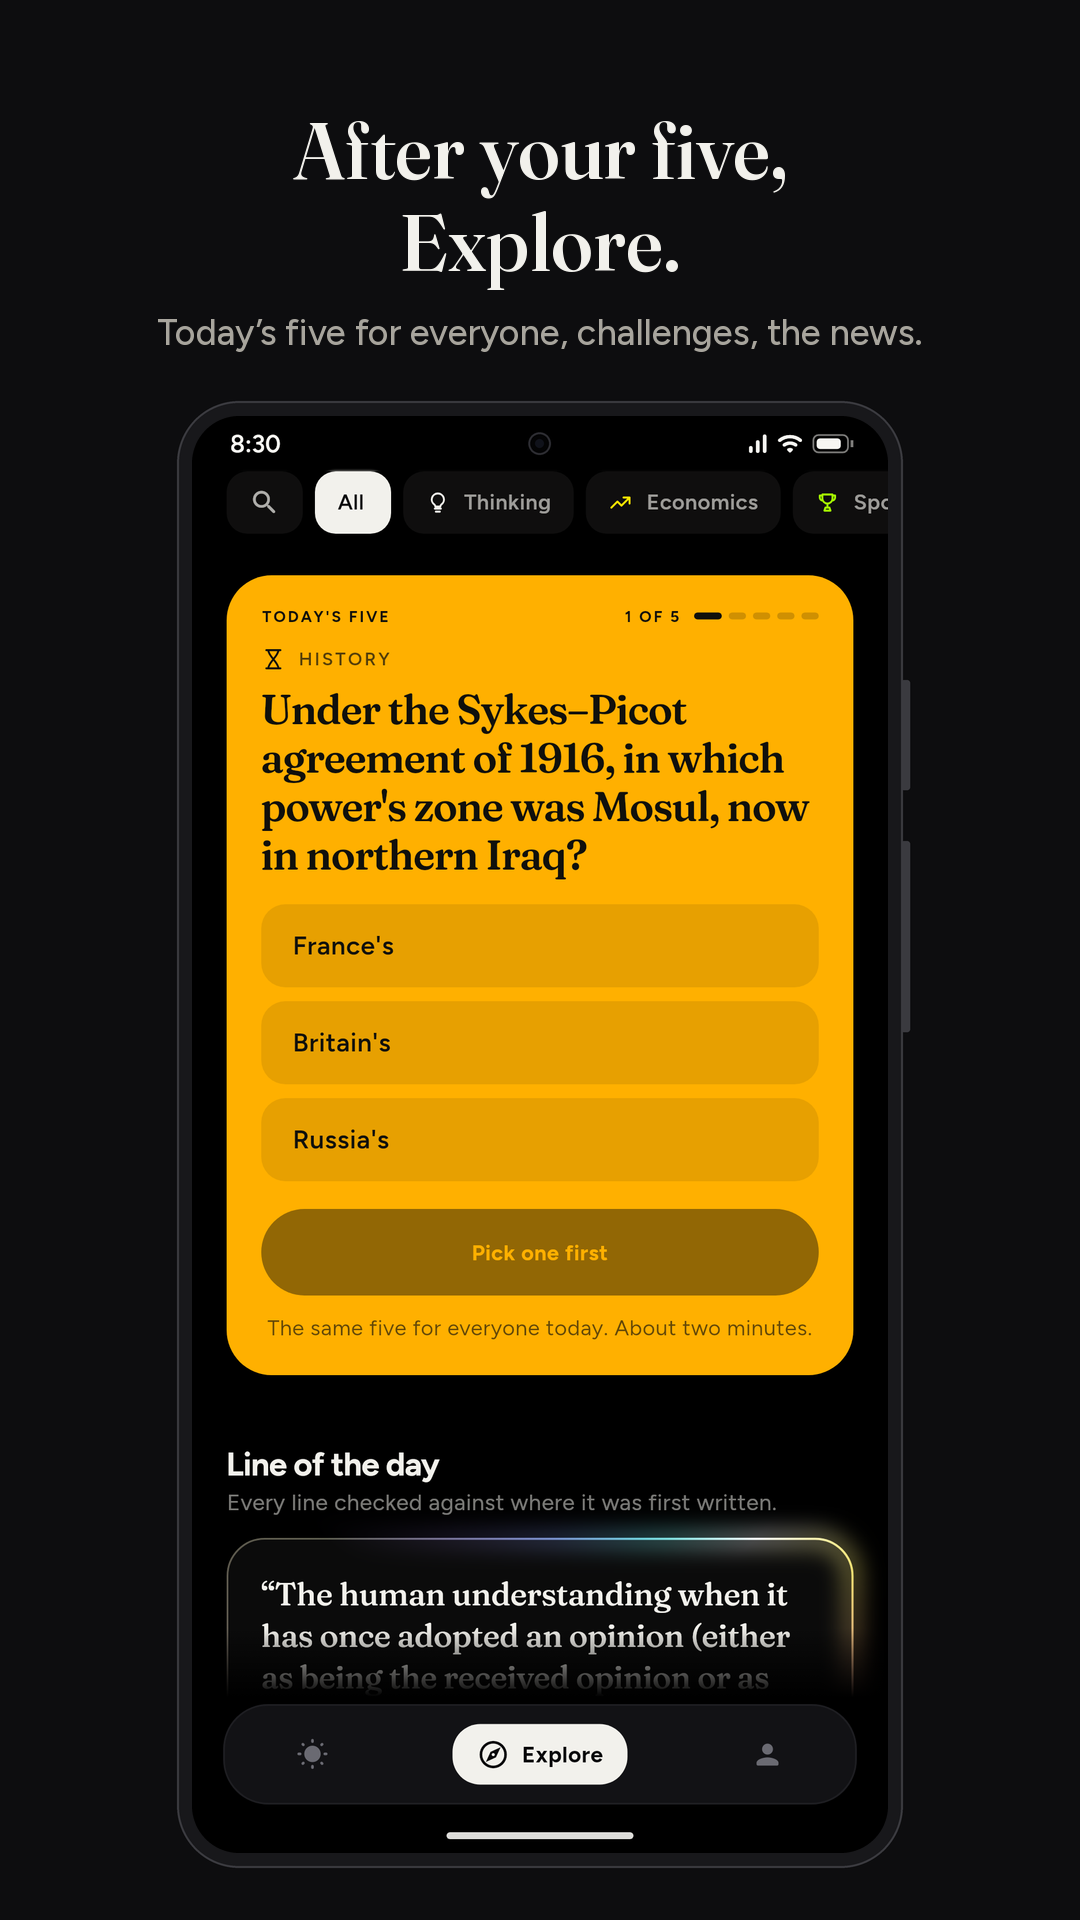
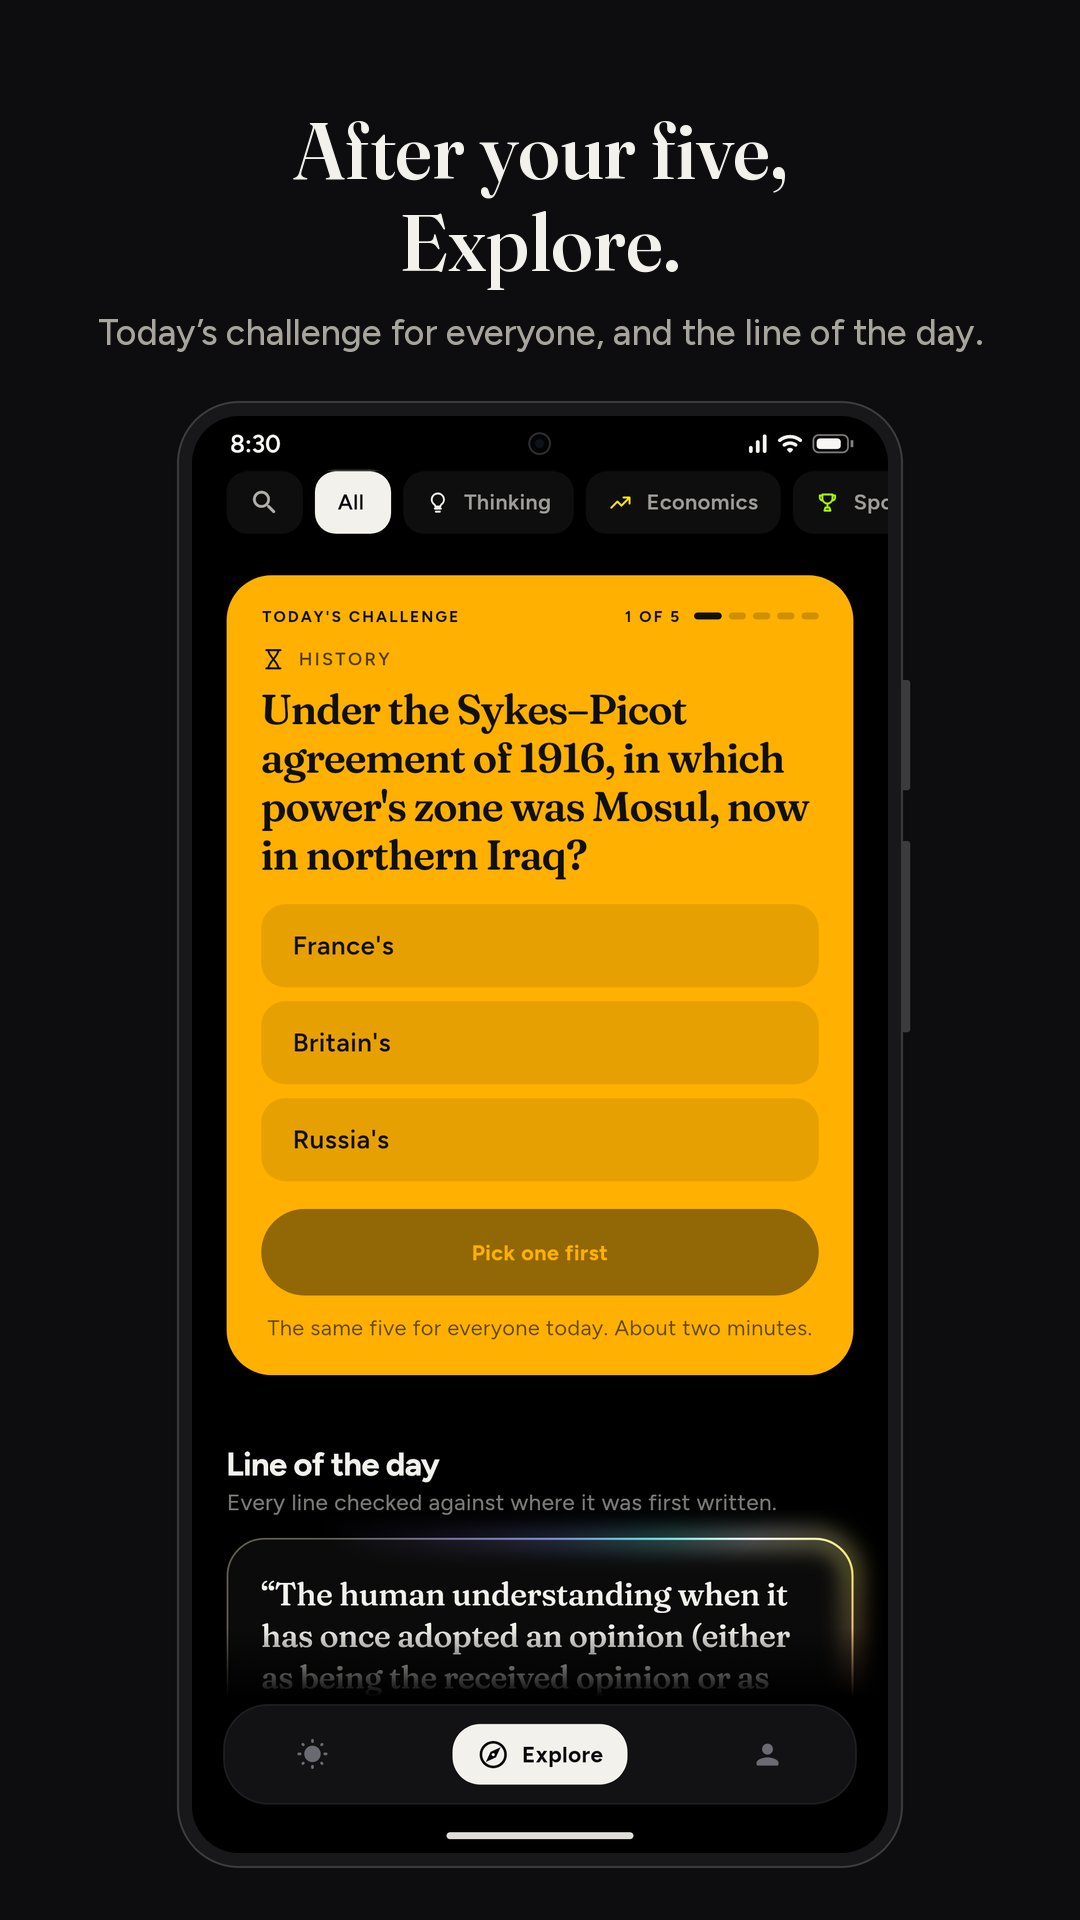
Today's challenge, as the app now calls everyone's five, in the listing and the pictures
The merge renamed Explore's five for everyone to Today's challenge (La
sfida di oggi), so the reader's own five never share a name with it. The
listing, the copy page, the Explore captions and the launch drafts now
use the app's name, and the Explore pictures are retaken on the merged
app; their caption names what the screen shows, the line of the day, not
the news below it. The checker also knows the new book audio switch, off
until the voice is set up, so no listing promises it early.

Claude-Session: https://claude.ai/code/session_01X1xTv2CpWJfjxfH2MaXNaq

Changed region(s): [[0.0917, 0.1562, 0.9167, 0.1875], [0.3361, 0.3125, 0.3667, 0.3438]]

diff --git a/store/compose_shots.py b/store/compose_shots.py
@@ -52,14 +52,14 @@ CAPTIONS = {
         "02-drawn": ("Cards you play,\nnot just read.", "Tap, drag, and watch the answer happen."),
         "03-answer": ("Say how sure you are.\nThen see why.", "The answer, the trap and the source."),
         "04-journey": ("Watch yourself\nget sharper.", "Your journey, week by week, with Astute+."),
-        "05-explore": ("After your five,\nExplore.", "Today’s five for everyone, challenges, the news."),
+        "05-explore": ("After your five,\nExplore.", "Today’s challenge for everyone, and the line of the day."),
     },
     "it": {
         "01-today": ("Cinque carte\nogni mattina.", "Domande vere, dalle materie che scegli tu."),
         "02-drawn": ("Carte da giocare,\nnon solo da leggere.", "Tocchi, trascini, e la risposta prende forma."),
         "03-answer": ("Di’ quanto sei sicuro.\nPoi scopri perché.", "La risposta, la trappola e la fonte."),
         "04-journey": ("Guarda quanto\nmigliori.", "Il tuo viaggio, settimana per settimana, con Astute+."),
-        "05-explore": ("Dopo le tue cinque,\nc’è Esplora.", "Le cinque di oggi per tutti, le sfide, le notizie."),
+        "05-explore": ("Dopo le tue cinque,\nc’è Esplora.", "La sfida di oggi, uguale per tutti, e la frase del giorno."),
     },
 }
 

diff --git a/store/test_check_listing.py b/store/test_check_listing.py
@@ -100,6 +100,12 @@ class HonestyTest(unittest.TestCase):
         text = swapped("A habit that stays small", "Listen to your five. A habit that stays small")
         self.assertEqual(check_listing.problems(text, facts), [])
 
+    def test_book_audio_is_not_promised_while_it_is_off(self):
+        facts = dict(FACTS, flags=dict(FACTS["flags"], bookAudio=False))
+        text = swapped("Books in pills, one free every week.", "Books in pills, one free every week, read aloud.")
+        found = check_listing.problems(text, facts)
+        self.assertTrue(any("bookAudio" in p for p in found), found)
+
     def test_the_cards_in_english_are_said(self):
         found = problems(swapped("Le carte, per ora, sono in inglese.", ""))
         self.assertTrue(any("in English" in p for p in found), found)

diff --git a/store/check_listing.py b/store/check_listing.py
@@ -183,6 +183,8 @@ IN_ENGLISH = {"en": r"\bcards are in English\b", "it": r"\bcarte[^.]{0,20}\bsono
 # The words that name a feature behind each switch.
 FEATURES = {
     "listen": {"en": [r"\blisten", r"\bread aloud\b", r"\baudio\b"], "it": [r"\bascolt", r"\bad alta voce\b", r"\baudio\b"]},
+    "bookAudio": {"en": [r"\baudio ?books?\b", r"\bbooks?\b[^.]{0,40}\b(?:read aloud|listen|audio)"],
+                  "it": [r"\baudiolibr", r"\blibr[oi]\b[^.]{0,40}\b(?:ad alta voce|ascolt|audio)"]},
     "invite": {"en": [r"\binvit(?:e|ation)"], "it": [r"\binvit[ao]\b", r"\binvita un amico\b"]},
     "share.challenge": {"en": [r"\bchallenge a friend\b"], "it": [r"\bsfid(?:a|are) un amico\b"]},
     "cardAi": {"en": [r"\bassistant\b", r"\bcoach\b"], "it": [r"\bassistente\b", r"\bcoach\b"]},

diff --git a/store/listing.md b/store/listing.md
@@ -23,7 +23,7 @@ Learn something new every day
 trivia,curiosity,knowledge,science,history,brain,why,psychology,space,general,calibration,smart
 
 ### Promotional text (App Store 170)
-Five cards every morning, many drawn to be played. Answer, say how sure you are, then see why. In Explore, today's five: the same for everyone, to send a friend.
+Five cards every morning, many drawn to be played. Answer, say how sure you are, then see why. In Explore, today's challenge: five questions, the same for everyone.
 
 ### Short description (Google Play 80)
 Learn something new every day. Five cards: answer, say how sure, see why.
@@ -43,7 +43,7 @@ What your "sure" is worth
 Every time you say how sure you are, Astute keeps count. Your profile shows how often you are right when you say 70%, 80% or 90%: where you know more than you think, and where you are sure and wrong.
 
 Explore, when your five are done
-Today's five: the same five questions for everyone, a score out of 500, and a link to challenge a friend. Short challenges in estimation and judgement. The latest news, a story to a card, with the reports each one comes from. A line of the day, checked against where it was first written. A problem of the day. Books in pills, one free every week. Ten-card paths, from the easiest card to the hardest.
+Today's challenge: the same five questions for everyone, a score out of 500, and a link to challenge a friend. Short challenges in estimation and judgement. The latest news, a story to a card, with the reports each one comes from. A line of the day, checked against where it was first written. A problem of the day. Books in pills, one free every week. Ten-card paths, from the easiest card to the hardest.
 
 A habit that stays small
 Five cards and you are done for the day. One notification a day, with a question from your cards; a streak with freezes for the day you forget; and widgets for your home screen.
@@ -74,7 +74,7 @@ Impara qualcosa ogni giorno
 quiz,cultura,generale,scienza,storia,cervello,sapevi,psicologia,spazio,arte,domande,mente,imparare
 
 ### Testo promozionale
-Cinque carte ogni mattina, molte da giocare. Rispondi, di' quanto sei sicuro e scopri il perché. In Esplora, le cinque di oggi: uguali per tutti, da mandare a un amico.
+Cinque carte ogni mattina, molte da giocare. Rispondi, di' quanto sei sicuro e scopri il perché. In Esplora, la sfida di oggi: cinque domande uguali per tutti.
 
 ### Descrizione breve (Google Play)
 Impara qualcosa di nuovo ogni giorno: cinque carte, e di ognuna il perché.
@@ -94,7 +94,7 @@ Quanto vale il tuo «sono sicuro»
 Ogni volta che dici quanto sei sicuro, Astute tiene il conto. Nel profilo vedi quante volte hai ragione quando dici 70%, 80% o 90%: dove ne sai più di quanto pensi, e dove sei sicuro e sbagli.
 
 Esplora, quando hai finito le tue cinque
-Le cinque di oggi: le stesse cinque domande per tutti, un punteggio su 500 e un link per sfidare un amico. Sfide brevi di stima e di giudizio. Le ultime notizie, una storia per carta, con gli articoli da cui viene ognuna. La frase del giorno, verificata là dove fu scritta per la prima volta. Il problema del giorno. I libri in pillole, uno gratis ogni settimana. Percorsi da 10 carte, dalla più facile alla più difficile.
+La sfida di oggi: le stesse cinque domande per tutti, un punteggio su 500 e un link per sfidare un amico. Sfide brevi di stima e di giudizio. Le ultime notizie, una storia per carta, con gli articoli da cui viene ognuna. La frase del giorno, verificata là dove fu scritta per la prima volta. Il problema del giorno. I libri in pillole, uno gratis ogni settimana. Percorsi da 10 carte, dalla più facile alla più difficile.
 
 Un'abitudine che resta piccola
 Cinque carte e per oggi hai finito. Una notifica al giorno, con una domanda dalle tue carte; una serie di giorni con i jolly per il giorno in cui te ne dimentichi; e i widget per la schermata Home.

diff --git a/store/play_it_en.md b/store/play_it_en.md
@@ -67,7 +67,7 @@ What your "sure" is worth
 Every time you say how sure you are, Astute keeps count. Your profile shows how often you are right when you say 70%, 80% or 90%: where you know more than you think, and where you are sure and wrong.
 
 Explore, when your five are done
-Today's five: the same five questions for everyone, a score out of 500, and a link to challenge a friend. Short challenges in estimation and judgement. The latest news, a story to a card, with the reports each one comes from. A line of the day, checked against where it was first written. A problem of the day. Books in pills, one free every week. Ten-card paths, from the easiest card to the hardest.
+Today's challenge: the same five questions for everyone, a score out of 500, and a link to challenge a friend. Short challenges in estimation and judgement. The latest news, a story to a card, with the reports each one comes from. A line of the day, checked against where it was first written. A problem of the day. Books in pills, one free every week. Ten-card paths, from the easiest card to the hardest.
 
 A habit that stays small
 Five cards and you are done for the day. One notification a day, with a question from your cards; a streak with freezes for the day you forget; and widgets for your home screen.
@@ -115,7 +115,7 @@ Quanto vale il tuo «sono sicuro»
 Ogni volta che dici quanto sei sicuro, Astute tiene il conto. Nel profilo vedi quante volte hai ragione quando dici 70%, 80% o 90%: dove ne sai più di quanto pensi, e dove sei sicuro e sbagli.
 
 Esplora, quando hai finito le tue cinque
-Le cinque di oggi: le stesse cinque domande per tutti, un punteggio su 500 e un link per sfidare un amico. Sfide brevi di stima e di giudizio. Le ultime notizie, una storia per carta, con gli articoli da cui viene ognuna. La frase del giorno, verificata là dove fu scritta per la prima volta. Il problema del giorno. I libri in pillole, uno gratis ogni settimana. Percorsi da 10 carte, dalla più facile alla più difficile.
+La sfida di oggi: le stesse cinque domande per tutti, un punteggio su 500 e un link per sfidare un amico. Sfide brevi di stima e di giudizio. Le ultime notizie, una storia per carta, con gli articoli da cui viene ognuna. La frase del giorno, verificata là dove fu scritta per la prima volta. Il problema del giorno. I libri in pillole, uno gratis ogni settimana. Percorsi da 10 carte, dalla più facile alla più difficile.
 
 Un'abitudine che resta piccola
 Cinque carte e per oggi hai finito. Una notifica al giorno, con una domanda dalle tue carte; una serie di giorni con i jolly per il giorno in cui te ne dimentichi; e i widget per la schermata Home.

diff --git a/docs/launch/show-hn.md b/docs/launch/show-hn.md
@@ -40,7 +40,7 @@ Some details:
 
 - About 6,500 cards across 20 subjects. Around 900 are small drawings you play with: drop half of Etna into the sea and watch what reaches the far coast, or lengthen a straw until the air can no longer push the water up.
 - An AI model writes the cards ahead of time, each from a named source. Most of the drawn ones start from science explainer videos (Geopop and Veritasium), usually with a link to the minute where the point is made. A second model reviews most cards, and anything it cannot confirm goes on a list for a person to check. Readers can flag a card; a card flagged enough stops being dealt until someone has checked it.
-- The free plan is five cards a day (two picked for you, three at random from your subjects), plus Explore: a daily five that is the same for everyone, short estimation exercises, and a news digest with its sources. Astute+ is €29.99 a year with 14 days free: it picks all five at your level and shows your calibration week by week.
+- The free plan is five cards a day (two picked for you, three at random from your subjects), plus Explore: today's challenge (five questions, the same for everyone), short estimation exercises, and a news digest with its sources. Astute+ is €29.99 a year with 14 days free: it picks all five at your level and shows your calibration week by week.
 - No ads, and no account needed. Signing in only moves your record to a new phone.
 - Built with Flutter, Firebase and RevenueCat. The drawn cards are HTML pages on a small kit, shown in a webview, so a new kind of card does not need an app release.
 

diff --git a/docs/launch/product-hunt.md b/docs/launch/product-hunt.md
@@ -55,6 +55,6 @@ A few things I want to be clear about:
 - The cards are written ahead of time by an AI model, each from a named source you can open. A second model reviews most of them, and anything it cannot confirm goes to a person. You can flag a card, and a flagged card stops being shown until someone has checked it.
 - Many of the drawn cards start from science explainer videos. Each names the video, usually with a link to the minute it comes from.
 - The cards are in English for now; the app itself speaks 13 languages.
-- The free plan is five cards a day and Explore, with its daily five and its challenges. Astute+ picks all five at your level and shows how you change week by week; the yearly plan starts with 14 days free.
+- The free plan is five cards a day and Explore, with today's challenge (five questions, the same for everyone) and its short exercises. Astute+ picks all five at your level and shows how you change week by week; the yearly plan starts with 14 days free.
 
 What I would most like to hear: which card made you stop and think, and which one was wrong or dull.
